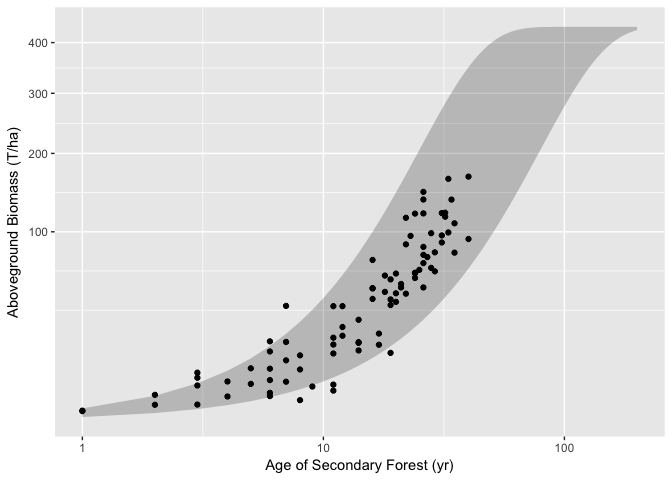
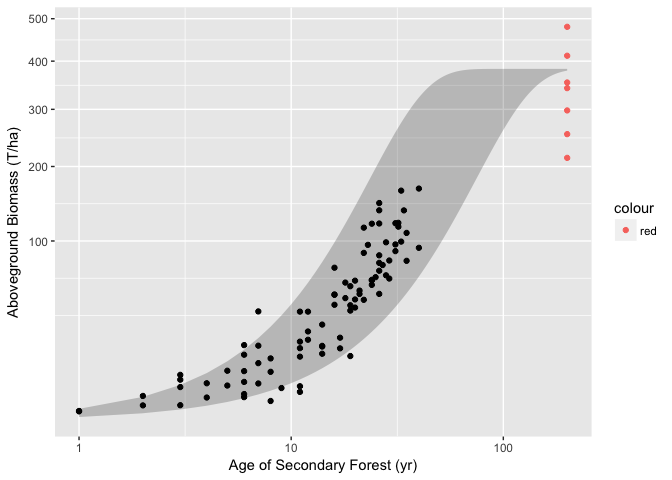
final draft

diff --git a/Carbon.md b/Carbon.md
@@ -124,10 +124,11 @@ data3[data3$categorie=="J 1-10 ans",]$categorie<-"a. Secondary < 11yr"
 data3[data3$categorie=="J 11-20 ans",]$categorie<-"b. Secondary 11-20 yr"
 data3[data3$categorie=="J 21-30 ans",]$categorie<-"c. Secondary 21-30 yr"
 data3[data3$categorie=="J 31-40 ans",]$categorie<-"d. Secondary > 30yr"
-data3[data3$categorie=="foretanci ",]$categorie<-"f. Old Growth"
+data3[data3$categorie=="foretanci ",]$categorie<-"e. Old Growth"
 data3[data3$categorie=="foretexpl ",]$categorie<-"e. Logged"
+#### dropping logged forests
+data3<-data3[!data3$categorie=="e. Logged",]
 data3$categorie<-as.factor(data3$categorie)
-
 # kruskal.test(data3$AGB,data3$categorie)
 # kruskal.test(data3$BA,data3$categorie)
 # kruskal.test(data3$DG,data3$categorie)
@@ -154,8 +155,10 @@ p + facet_wrap( ~ var, scales="free")
 ### Forest recovery rates
 
 ``` r
-agbmax<-quantile(data3[data3$categorie %in% c("e. Logged","f. Old Growth"),]$AGB, 0.75)
-data4<-data3[!data3$categorie %in% c("e. Logged","f. Old Growth"),]
+agbmax<-quantile(data3[data3$categorie %in% c("e. Old Growth"),]$AGB, 0.75)
+data4<-data3[!data3$categorie %in% c("e. Old Growth"),]
+data5<-data3[data3$categorie %in% c("e. Old Growth"),]
+data5$age<-200
 data4$lambda<- -log(1-(data4$AGB/agbmax))/((data4$age/10)^2)
 q<-quantile(data4$lambda, probs=c(0.05, 0.5, 0.95))
 ```
@@ -165,10 +168,10 @@ library(ggplot2)
 age<-1:200
 newdata <- data.frame(age=age, med=agbmax*(1-exp(-q[2]*((age/10)^2))), q05=agbmax*(1-exp(-q[1]*((age/10)^2))),
                     q95= agbmax*(1-exp(-q[3]*((age/10)^2))))
-
 ggplot() +
   geom_ribbon(data=newdata, aes(x=age, ymin = q05, ymax = q95), alpha = .25)+
   geom_point(data=data4, aes(x = age, y=AGB))+
+  geom_point(data=data5, aes(x=age, y=AGB, colour="red"))+
   scale_y_sqrt()+
   scale_x_log10()+
   xlab("Age of Secondary Forest (yr)") + ylab("Aboveground Biomass (T/ha)")
@@ -177,6 +180,194 @@ ggplot() +
 ![](Carbon_files/figure-markdown_github/fig2-1.png)
 
 ### Environmental control on recovery rates
+
+``` r
+str(data4)
+```
+
+    ## 'data.frame':    89 obs. of  17 variables:
+    ##  $ plot                : int  1 2 4 6 7 8 10 12 17 18 ...
+    ##  $ categorie           : Factor w/ 5 levels "a. Secondary < 11yr",..: 2 1 3 3 1 4 2 4 2 4 ...
+    ##  $ age                 : int  11 3 26 21 5 32 17 34 20 35 ...
+    ##  $ nbr_remanent        : int  5 7 16 1 7 2 1 2 6 0 ...
+    ##  $ shannon             : num  2.42 1.84 3.16 3.52 1.88 ...
+    ##  $ Proximiteforesti.re.: int  300 500 150 10 500 10 50 10 210 10 ...
+    ##  $ Densiteforesti.re.  : int  3 0 1 5 1 5 4 7 4 4 ...
+    ##  $ Altitude            : int  135 96 106 118 124 120 122 99 129 119 ...
+    ##  $ Annedeculture       : int  2 2 3 10 3 3 3 6 10 10 ...
+    ##  $ Typedesol           : Factor w/ 2 levels "solferralitique",..: 1 2 2 1 1 1 1 1 1 1 ...
+    ##  $ Topographie         : Factor w/ 7 levels "bas fond","bas pente",..: 7 1 6 5 5 5 7 5 5 5 ...
+    ##  $ Precedentcultural   : Factor w/ 5 levels "cacao","igname",..: 3 5 1 1 3 1 3 1 1 1 ...
+    ##  $ AGB                 : num  12.729 0.753 146.648 52.435 3.846 ...
+    ##  $ N                   : num  1285 285 1765 1790 1485 ...
+    ##  $ BA                  : num  7.71 2.12 48.26 17.61 4.35 ...
+    ##  $ DG                  : num  8.74 9.73 18.66 11.19 6.11 ...
+    ##  $ lambda              : num  0.0279 0.0219 0.0714 0.0334 0.0404 ...
+
+``` r
+model<-lm(lambda~log(nbr_remanent+1)+shannon+log(Proximiteforesti.re.+1)+log(Densiteforesti.re.+1)+Altitude+log(Annedeculture+1)+Typedesol+Precedentcultural, data=data4)
+summary(model)
+```
+
+    ## 
+    ## Call:
+    ## lm(formula = lambda ~ log(nbr_remanent + 1) + shannon + log(Proximiteforesti.re. + 
+    ##     1) + log(Densiteforesti.re. + 1) + Altitude + log(Annedeculture + 
+    ##     1) + Typedesol + Precedentcultural, data = data4)
+    ## 
+    ## Residuals:
+    ##       Min        1Q    Median        3Q       Max 
+    ## -0.054859 -0.013633 -0.002287  0.010989  0.135133 
+    ## 
+    ## Coefficients:
+    ##                                 Estimate Std. Error t value Pr(>|t|)    
+    ## (Intercept)                    0.1128581  0.0599683   1.882   0.0636 .  
+    ## log(nbr_remanent + 1)          0.0158918  0.0038015   4.180 7.62e-05 ***
+    ## shannon                       -0.0073655  0.0107164  -0.687   0.4940    
+    ## log(Proximiteforesti.re. + 1) -0.0070113  0.0043621  -1.607   0.1121    
+    ## log(Densiteforesti.re. + 1)   -0.0038907  0.0108778  -0.358   0.7216    
+    ## Altitude                      -0.0002111  0.0002675  -0.789   0.4325    
+    ## log(Annedeculture + 1)        -0.0028257  0.0066846  -0.423   0.6737    
+    ## Typedesolsolhydromorphe       -0.0107970  0.0091441  -1.181   0.2413    
+    ## Precedentculturaligname        0.0171447  0.0173539   0.988   0.3263    
+    ## Precedentculturalmanioc        0.0242084  0.0131418   1.842   0.0693 .  
+    ## Precedentculturalma\357s       0.0198635  0.0142180   1.397   0.1664    
+    ## Precedentculturalriz          -0.0156545  0.0167485  -0.935   0.3529    
+    ## ---
+    ## Signif. codes:  0 '***' 0.001 '**' 0.01 '*' 0.05 '.' 0.1 ' ' 1
+    ## 
+    ## Residual standard error: 0.02944 on 77 degrees of freedom
+    ## Multiple R-squared:  0.4171, Adjusted R-squared:  0.3338 
+    ## F-statistic: 5.008 on 11 and 77 DF,  p-value: 7.745e-06
+
+``` r
+model1<-step(model)
+```
+
+    ## Start:  AIC=-616.43
+    ## lambda ~ log(nbr_remanent + 1) + shannon + log(Proximiteforesti.re. + 
+    ##     1) + log(Densiteforesti.re. + 1) + Altitude + log(Annedeculture + 
+    ##     1) + Typedesol + Precedentcultural
+    ## 
+    ##                                 Df Sum of Sq      RSS     AIC
+    ## - log(Densiteforesti.re. + 1)    1 0.0001109 0.066833 -618.28
+    ## - log(Annedeculture + 1)         1 0.0001548 0.066877 -618.23
+    ## - shannon                        1 0.0004093 0.067131 -617.89
+    ## - Altitude                       1 0.0005396 0.067261 -617.71
+    ## - Typedesol                      1 0.0012081 0.067930 -616.83
+    ## - Precedentcultural              4 0.0061828 0.072905 -616.54
+    ## <none>                                       0.066722 -616.43
+    ## - log(Proximiteforesti.re. + 1)  1 0.0022387 0.068960 -615.49
+    ## - log(nbr_remanent + 1)          1 0.0151433 0.081865 -600.23
+    ## 
+    ## Step:  AIC=-618.28
+    ## lambda ~ log(nbr_remanent + 1) + shannon + log(Proximiteforesti.re. + 
+    ##     1) + Altitude + log(Annedeculture + 1) + Typedesol + Precedentcultural
+    ## 
+    ##                                 Df Sum of Sq      RSS     AIC
+    ## - log(Annedeculture + 1)         1 0.0001653 0.066998 -620.06
+    ## - Altitude                       1 0.0004375 0.067270 -619.70
+    ## - shannon                        1 0.0005717 0.067404 -619.53
+    ## - Typedesol                      1 0.0010982 0.067931 -618.83
+    ## - Precedentcultural              4 0.0060991 0.072932 -618.51
+    ## <none>                                       0.066833 -618.28
+    ## - log(Proximiteforesti.re. + 1)  1 0.0023883 0.069221 -617.16
+    ## - log(nbr_remanent + 1)          1 0.0160928 0.082925 -601.08
+    ## 
+    ## Step:  AIC=-620.06
+    ## lambda ~ log(nbr_remanent + 1) + shannon + log(Proximiteforesti.re. + 
+    ##     1) + Altitude + Typedesol + Precedentcultural
+    ## 
+    ##                                 Df Sum of Sq      RSS     AIC
+    ## - Altitude                       1 0.0004401 0.067438 -621.48
+    ## - shannon                        1 0.0007358 0.067734 -621.09
+    ## - Typedesol                      1 0.0010031 0.068001 -620.74
+    ## <none>                                       0.066998 -620.06
+    ## - Precedentcultural              4 0.0077787 0.074777 -618.29
+    ## - log(Proximiteforesti.re. + 1)  1 0.0030674 0.070065 -618.08
+    ## - log(nbr_remanent + 1)          1 0.0165220 0.083520 -602.45
+    ## 
+    ## Step:  AIC=-621.48
+    ## lambda ~ log(nbr_remanent + 1) + shannon + log(Proximiteforesti.re. + 
+    ##     1) + Typedesol + Precedentcultural
+    ## 
+    ##                                 Df Sum of Sq      RSS     AIC
+    ## - Typedesol                      1 0.0005693 0.068007 -622.73
+    ## - shannon                        1 0.0006447 0.068083 -622.63
+    ## <none>                                       0.067438 -621.48
+    ## - Precedentcultural              4 0.0073583 0.074796 -620.26
+    ## - log(Proximiteforesti.re. + 1)  1 0.0030510 0.070489 -619.54
+    ## - log(nbr_remanent + 1)          1 0.0167694 0.084208 -603.72
+    ## 
+    ## Step:  AIC=-622.73
+    ## lambda ~ log(nbr_remanent + 1) + shannon + log(Proximiteforesti.re. + 
+    ##     1) + Precedentcultural
+    ## 
+    ##                                 Df Sum of Sq      RSS     AIC
+    ## - shannon                        1  0.000527 0.068534 -624.05
+    ## <none>                                       0.068007 -622.73
+    ## - log(Proximiteforesti.re. + 1)  1  0.003451 0.071458 -620.33
+    ## - Precedentcultural              4  0.010465 0.078473 -617.99
+    ## - log(nbr_remanent + 1)          1  0.016750 0.084758 -605.14
+    ## 
+    ## Step:  AIC=-624.05
+    ## lambda ~ log(nbr_remanent + 1) + log(Proximiteforesti.re. + 1) + 
+    ##     Precedentcultural
+    ## 
+    ##                                 Df Sum of Sq      RSS     AIC
+    ## <none>                                       0.068534 -624.05
+    ## - log(Proximiteforesti.re. + 1)  1 0.0031916 0.071726 -621.99
+    ## - Precedentcultural              4 0.0109972 0.079532 -618.80
+    ## - log(nbr_remanent + 1)          1 0.0164222 0.084957 -606.93
+
+``` r
+summary(model1)
+```
+
+    ## 
+    ## Call:
+    ## lm(formula = lambda ~ log(nbr_remanent + 1) + log(Proximiteforesti.re. + 
+    ##     1) + Precedentcultural, data = data4)
+    ## 
+    ## Residuals:
+    ##       Min        1Q    Median        3Q       Max 
+    ## -0.051779 -0.015261 -0.003418  0.010121  0.142315 
+    ## 
+    ## Coefficients:
+    ##                                Estimate Std. Error t value Pr(>|t|)    
+    ## (Intercept)                    0.042162   0.010458   4.032 0.000123 ***
+    ## log(nbr_remanent + 1)          0.016176   0.003649   4.433 2.86e-05 ***
+    ## log(Proximiteforesti.re. + 1) -0.005368   0.002747  -1.954 0.054092 .  
+    ## Precedentculturaligname        0.023496   0.014883   1.579 0.118251    
+    ## Precedentculturalmanioc        0.029428   0.010615   2.772 0.006884 ** 
+    ## Precedentculturalma\357s       0.027724   0.011254   2.464 0.015850 *  
+    ## Precedentculturalriz          -0.006894   0.013999  -0.492 0.623725    
+    ## ---
+    ## Signif. codes:  0 '***' 0.001 '**' 0.01 '*' 0.05 '.' 0.1 ' ' 1
+    ## 
+    ## Residual standard error: 0.02891 on 82 degrees of freedom
+    ## Multiple R-squared:  0.4012, Adjusted R-squared:  0.3574 
+    ## F-statistic: 9.158 on 6 and 82 DF,  p-value: 1.151e-07
+
+Effect of the number of residual trees on Lambda
+
+``` r
+ggplot(data4, aes(log(nbr_remanent+1),lambda)) + geom_point() + geom_smooth() +
+    xlab("log(Number of residual trees +1)") + ylab("Recovery rate")
+```
+
+    ## `geom_smooth()` using method = 'loess'
+
+![](Carbon_files/figure-markdown_github/residual-1.png)
+
+Effect of the precedent crop
+
+``` r
+ggplot(data4, aes(x=Precedentcultural,y=lambda, fill=Precedentcultural)) + geom_boxplot() +
+    xlab("Precedent Crop") + ylab("Recovery rate")
+```
+
+![](Carbon_files/figure-markdown_github/crop-1.png)
 
 Discussion
 ----------
